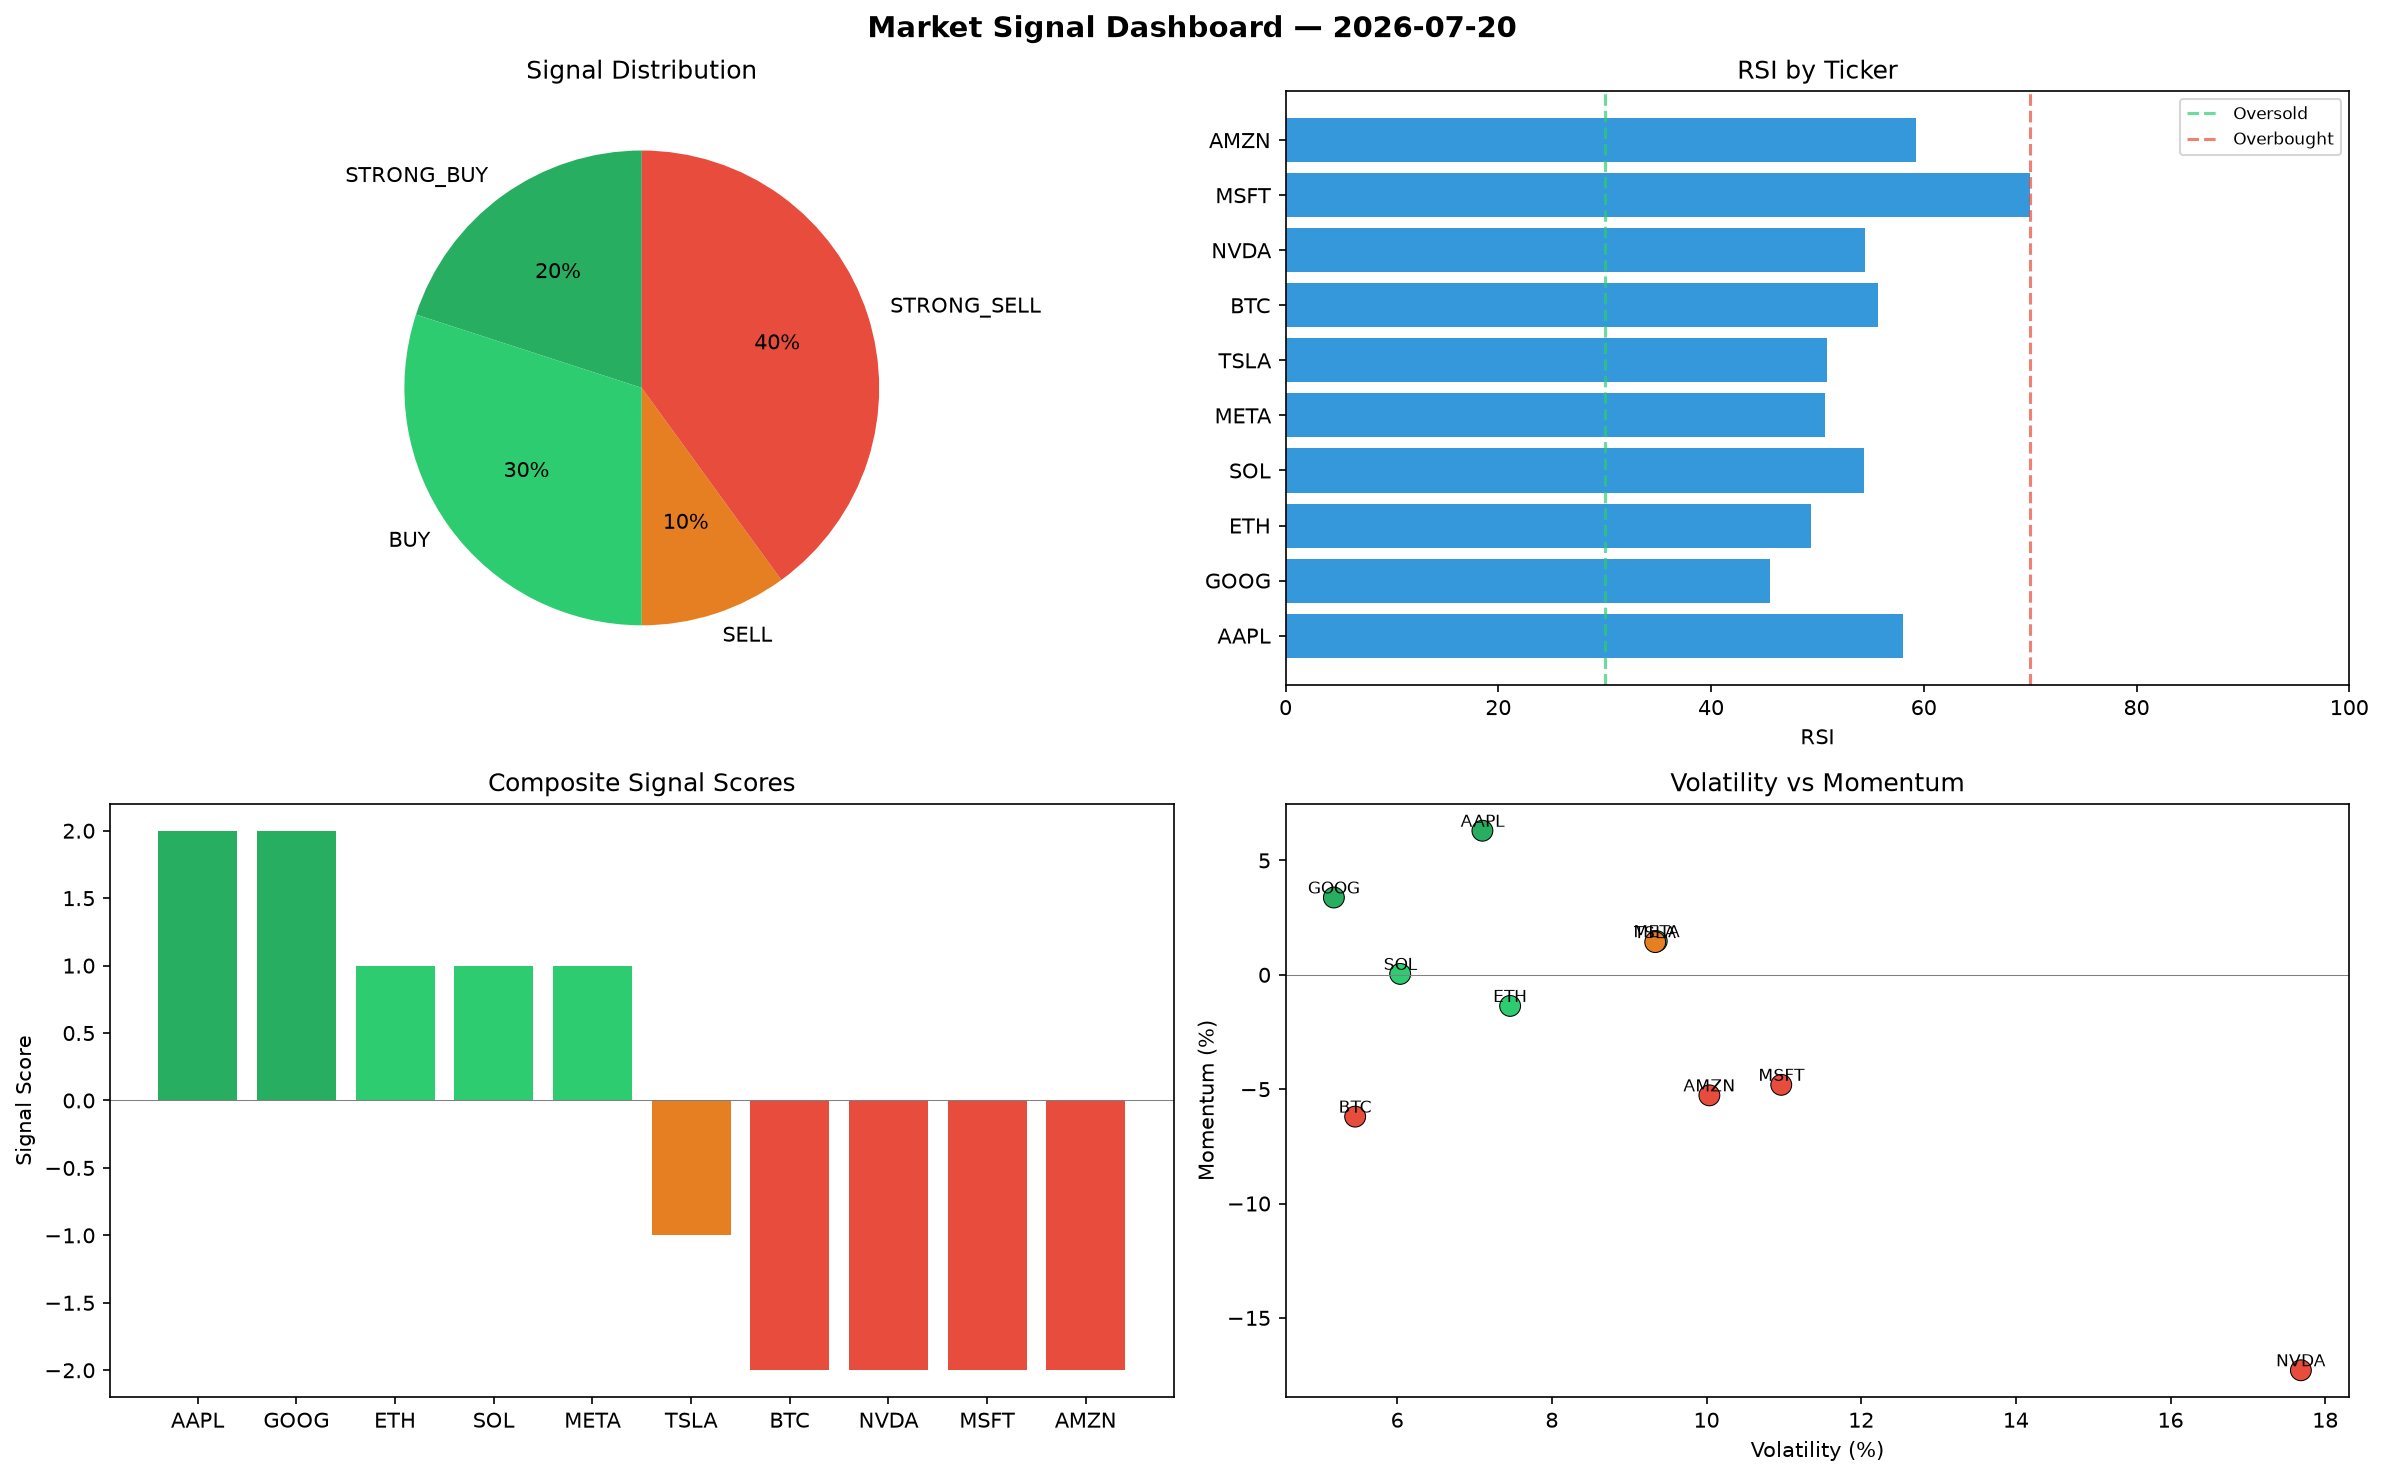
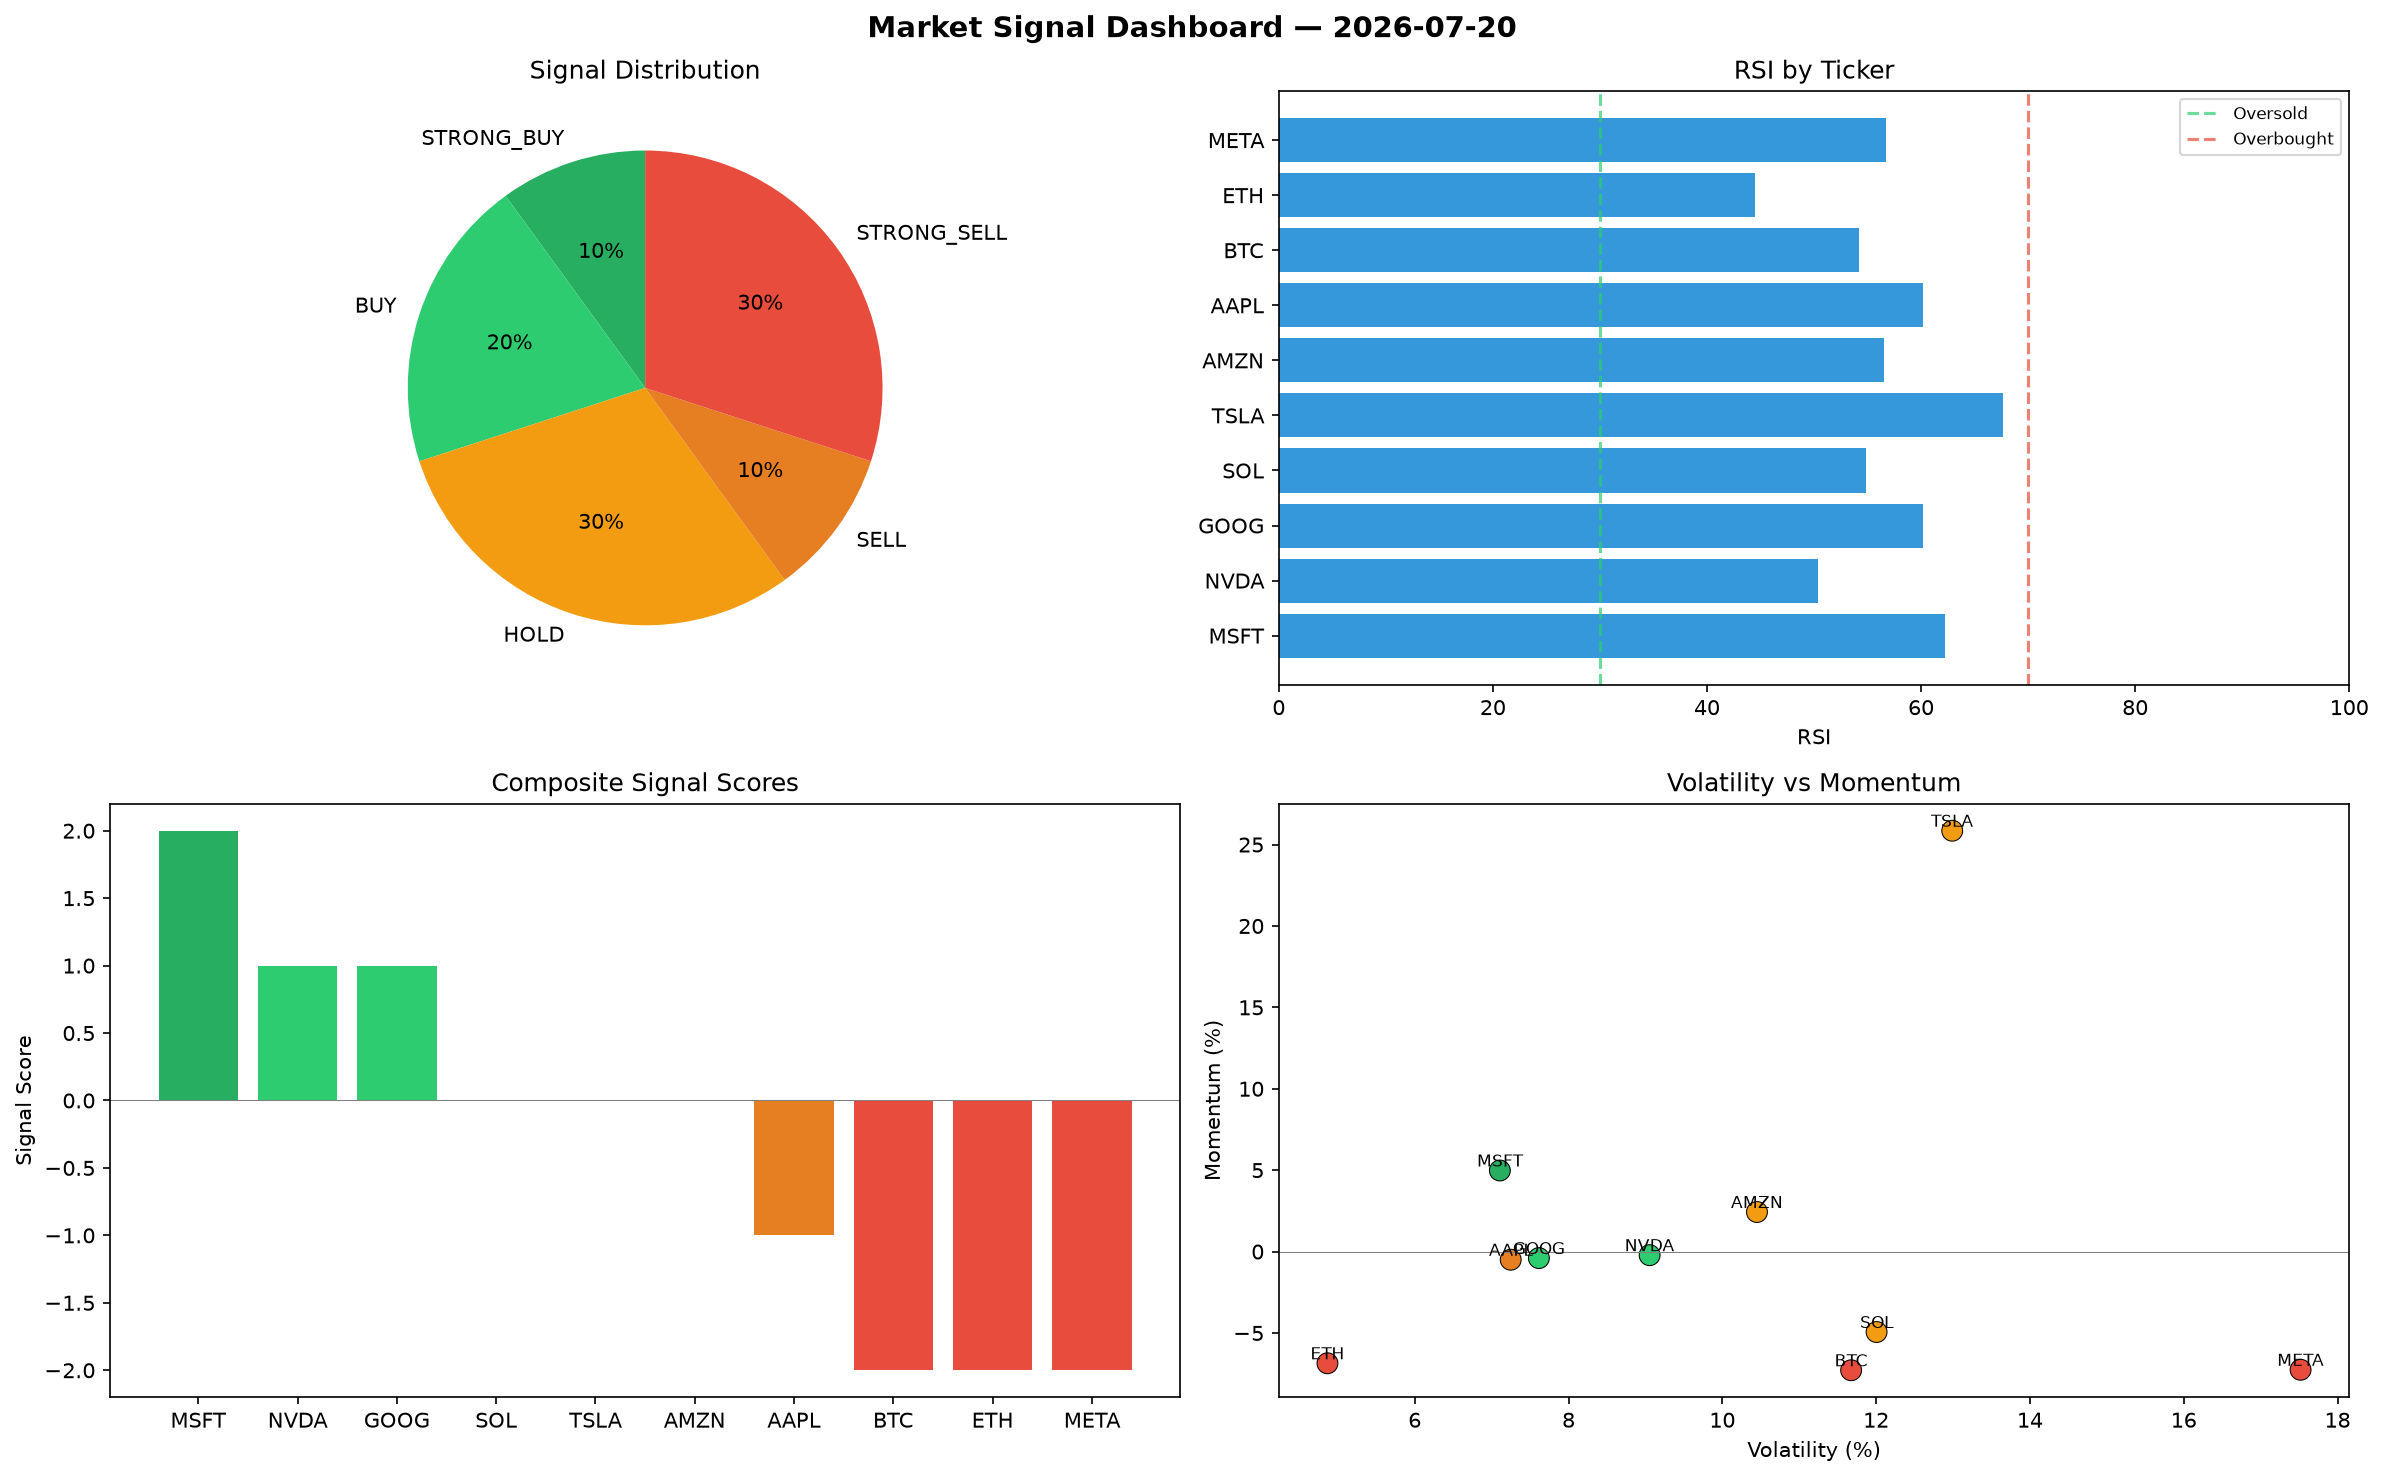
automated-bots: market signals 2026-07-20T11:19

diff --git a/logs/2026-07-20.md b/logs/2026-07-20.md
@@ -1,6 +1,6 @@
 # Market Signal Report — 2026-07-20
 
-**Run ID:** `e3eb111af7` | **Buy:** 5 | **Sell:** 5 | **Hold:** 0
+**Run ID:** `80639f0138` | **Buy:** 3 | **Sell:** 4 | **Hold:** 3
 
 ![Dashboard](2026-07-20_dashboard.png)
 
@@ -8,28 +8,28 @@
 
 | Ticker | Price | Signal | Score | RSI | Momentum | Confidence |
 |--------|-------|--------|-------|-----|----------|------------|
-| AAPL | $1715.16 | **STRONG_BUY** | 2 | 58.03 | 0.063 | 0.5 |
-| GOOG | $4231.18 | **STRONG_BUY** | 2 | 45.59 | 0.0338 | 0.5 |
-| ETH | $208.11 | **BUY** | 1 | 49.39 | -0.0136 | 0.25 |
-| SOL | $3978.18 | **BUY** | 1 | 54.42 | 0.0004 | 0.25 |
-| META | $769.4 | **BUY** | 1 | 50.75 | 0.0147 | 0.25 |
-| TSLA | $433.61 | **SELL** | -1 | 50.89 | 0.0143 | 0.25 |
-| BTC | $4143.87 | **STRONG_SELL** | -2 | 55.71 | -0.062 | 0.5 |
-| NVDA | $3872.12 | **STRONG_SELL** | -2 | 54.45 | -0.1729 | 0.5 |
-| MSFT | $1461.06 | **STRONG_SELL** | -2 | 69.94 | -0.0481 | 0.5 |
-| AMZN | $1198.83 | **STRONG_SELL** | -2 | 59.26 | -0.0527 | 0.5 |
+| MSFT | $1006.51 | **STRONG_BUY** | 2 | 62.19 | 0.0498 | 0.5 |
+| NVDA | $234.51 | **BUY** | 1 | 50.34 | -0.0022 | 0.25 |
+| GOOG | $1385.13 | **BUY** | 1 | 60.17 | -0.004 | 0.25 |
+| SOL | $3206.58 | **HOLD** | 0 | 54.81 | -0.0494 | 0.0 |
+| TSLA | $4329.1 | **HOLD** | 0 | 67.61 | 0.2585 | 0.0 |
+| AMZN | $4304.04 | **HOLD** | 0 | 56.56 | 0.0243 | 0.0 |
+| AAPL | $4301.42 | **SELL** | -1 | 60.14 | -0.005 | 0.25 |
+| BTC | $3148.79 | **STRONG_SELL** | -2 | 54.2 | -0.0729 | 0.5 |
+| ETH | $777.04 | **STRONG_SELL** | -2 | 44.45 | -0.0686 | 0.5 |
+| META | $3162.92 | **STRONG_SELL** | -2 | 56.68 | -0.0726 | 0.5 |
 
 ## Delta vs Yesterday
 
 | Ticker | Today | Yesterday | Price Change | Signal Changed |
 |--------|-------|-----------|-------------|----------------|
-| AAPL | STRONG_BUY | HOLD | 📈 126.11% | ⚠ YES |
-| GOOG | STRONG_BUY | HOLD | 📈 239.81% | ⚠ YES |
-| ETH | BUY | HOLD | 📉 -94.27% | ⚠ YES |
-| SOL | BUY | STRONG_BUY | 📈 1033.42% | ⚠ YES |
-| META | BUY | STRONG_SELL | 📉 -65.67% | ⚠ YES |
-| TSLA | SELL | BUY | 📉 -84.88% | ⚠ YES |
-| BTC | STRONG_SELL | STRONG_SELL | 📈 89.68% | — |
-| NVDA | STRONG_SELL | STRONG_SELL | 📉 -2.72% | — |
-| MSFT | STRONG_SELL | STRONG_SELL | 📉 -66.66% | — |
-| AMZN | STRONG_SELL | SELL | 📉 -11.38% | ⚠ YES |
+| MSFT | STRONG_BUY | STRONG_SELL | 📉 -77.03% | ⚠ YES |
+| NVDA | BUY | STRONG_SELL | 📉 -94.11% | ⚠ YES |
+| GOOG | BUY | HOLD | 📈 11.24% | ⚠ YES |
+| SOL | HOLD | STRONG_BUY | 📈 813.58% | ⚠ YES |
+| TSLA | HOLD | BUY | 📈 51.0% | ⚠ YES |
+| AMZN | HOLD | SELL | 📈 218.15% | ⚠ YES |
+| AAPL | SELL | HOLD | 📈 467.05% | ⚠ YES |
+| BTC | STRONG_SELL | STRONG_SELL | 📈 44.13% | — |
+| ETH | STRONG_SELL | HOLD | 📉 -78.59% | ⚠ YES |
+| META | STRONG_SELL | STRONG_SELL | 📈 41.12% | — |
